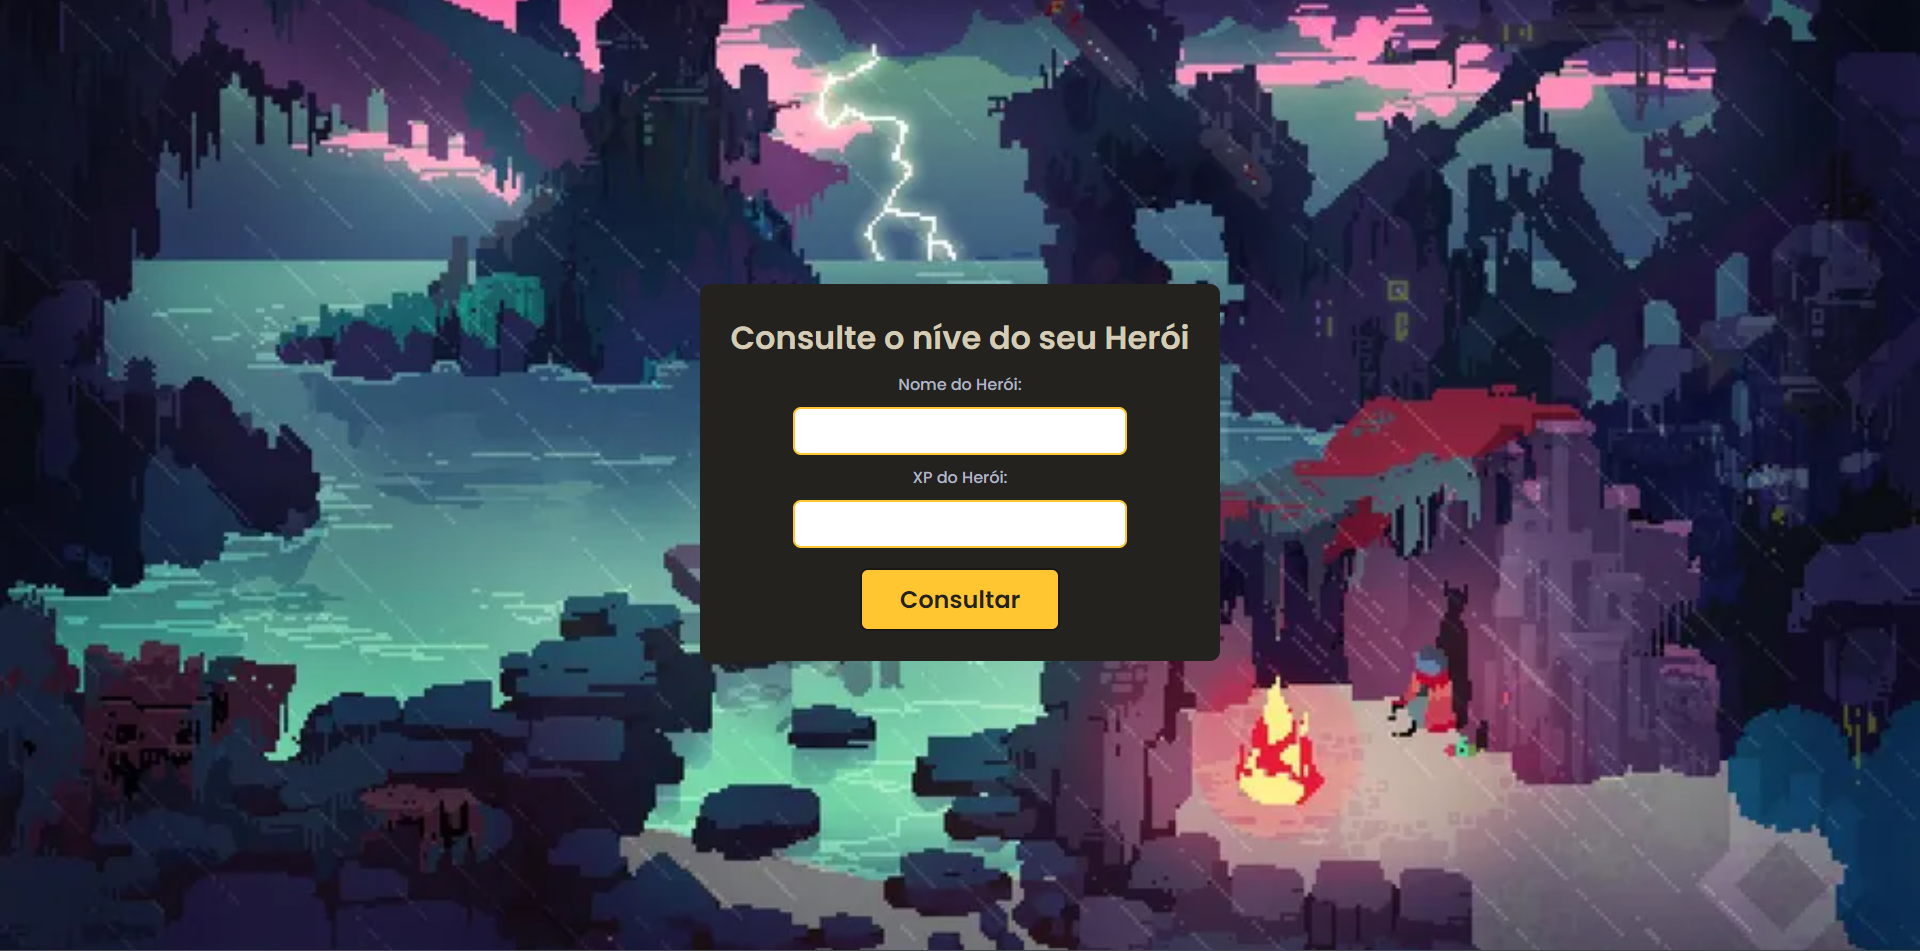
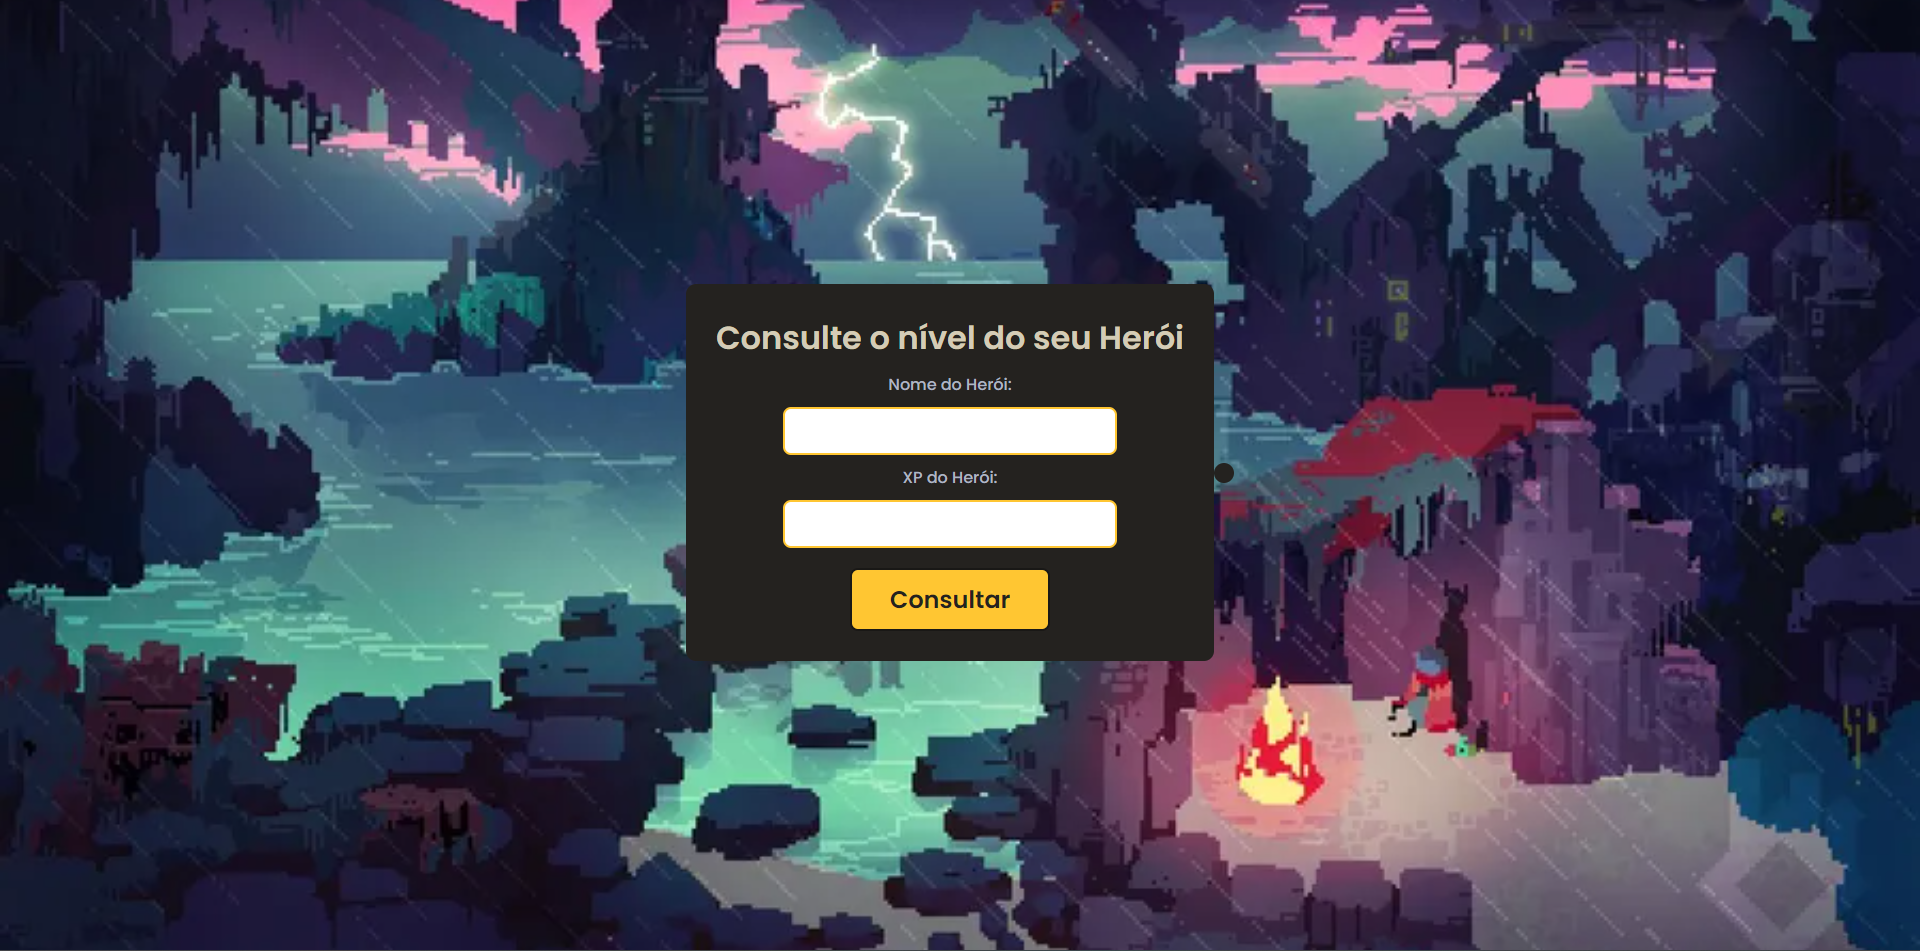
chore: corrige ortografia e atualiza imagem no diretório .github

diff --git a/index.html b/index.html
@@ -16,7 +16,7 @@
     <div class="box">
         <form class="box__form"  onsubmit=" return false;">
 
-            <legend>Consulte o níve do seu Herói</legend>
+            <legend>Consulte o nível do seu Herói</legend>
 
             <label class="box__title" for="username">Nome do Herói:</label>
             <input class="box__user" type="text" id="username" name="username">

diff --git a/assets/css/style.css b/assets/css/style.css
@@ -22,7 +22,7 @@ body {
 
 }
 
-.box, .nav__item {
+.box {
     background: var(--form-background);
     border-radius: 10px;
 }
